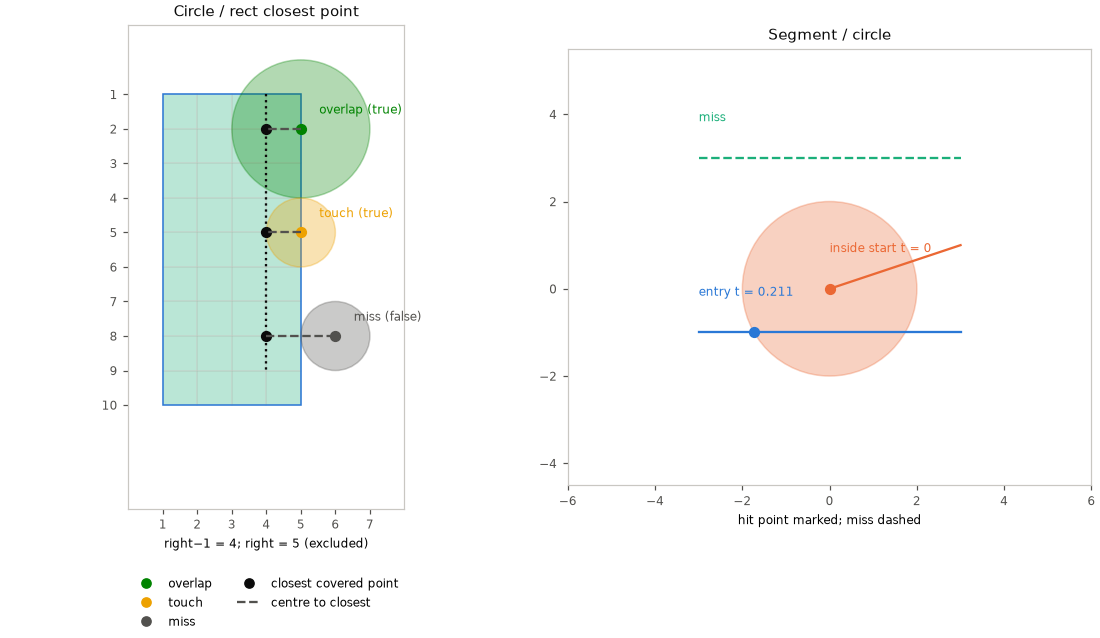
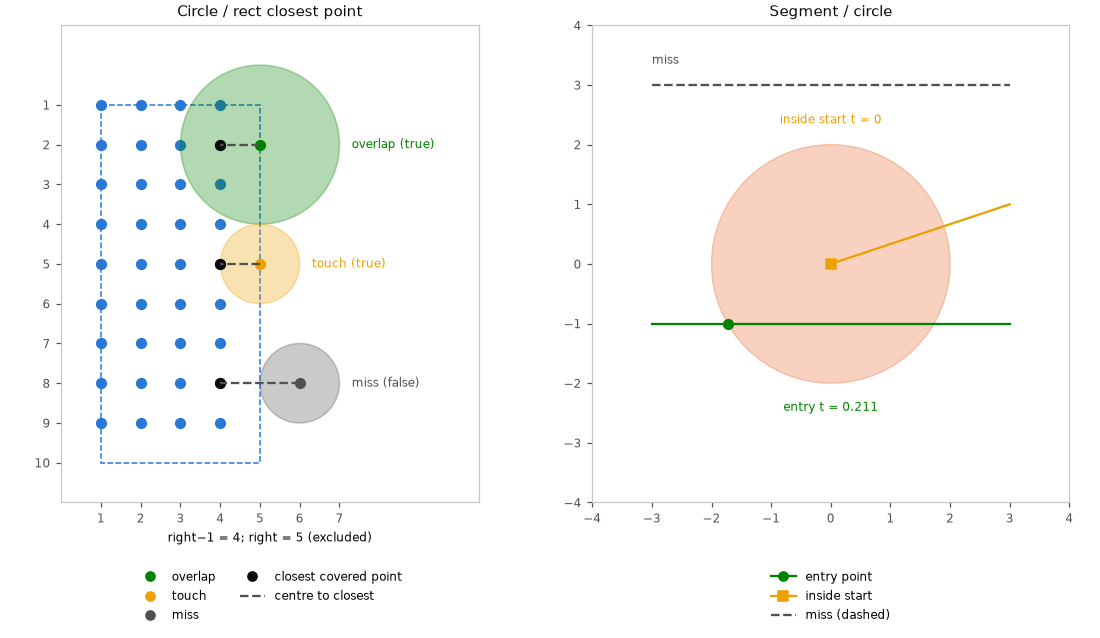
docs: circle figure shows integer cells as points (autana-z852)

diff --git a/launcher/tools/math/geometry_figures.py b/launcher/tools/math/geometry_figures.py
@@ -77,8 +77,9 @@ DISTANCE_STEP_Y = -1.35
 DISTANCE_MARGIN = 0.8
 SEGMENT_ZOOM = 0.9
 CIRCLE_MARGIN = 1
-CIRCLE_STATE_OFFSET = (12, 10)
-CIRCLE_SEGMENT_OFFSET = (0, 24)
+CIRCLE_STATE_OFFSET = (8, 0)
+CIRCLE_LABEL_ROOM = 3.5
+CIRCLE_SEGMENT_OFFSETS = ((0, -12), (0, 12), (0, 12))
 CIRCLE_LEGEND_OFFSET = -0.12
 
 
@@ -129,13 +130,12 @@ def circle_figure(data, output):
     fig.set_size_inches(FIGURE_WIDTH, FIGURE_HEIGHT)
     style_axes(axis, "Circle / rect closest point", square=True)
     x, y, w, h = data["rect"]
-    last_x, last_y = data["last"]
+    last_x, _ = data["last"]
     for cell_y in range(y, y + h):
         for cell_x in range(x, x + w):
-            axis.add_patch(Rectangle((cell_x, cell_y), 1, 1, facecolor=PIXEL_FILL,
-                                     edgecolor=FAINT, alpha=SHAPE_ALPHA))
-    axis.add_patch(Rectangle((x, y), w, h, facecolor="none", edgecolor=SHAPE_FILL))
-    axis.plot([last_x, last_x], [y, last_y], color=INK, linestyle=":")
+            axis.scatter(cell_x, cell_y, color=SHAPE_FILL, s=POINT_SIZE)
+    axis.add_patch(Rectangle((x, y), w, h, facecolor="none", edgecolor=SHAPE_FILL,
+                             linestyle="--"))
     axis.set_xlabel(f"right−1 = {last_x}; right = {x + w} (excluded)", fontsize=LABEL_SIZE)
     for centre, radius, closest, hit, state in data["circles"]:
         color = BOX_COLORS[("overlap", "touch", "miss").index(state)]
@@ -143,11 +143,11 @@ def circle_figure(data, output):
         axis.plot(*np.array([centre, closest]).T, color=MUTED, linestyle="--")
         axis.scatter(*centre, color=color, s=POINT_SIZE)
         axis.scatter(*closest, color=INK, s=POINT_SIZE)
-        axis.annotate(f"{state} ({'true' if hit else 'false'})", centre,
+        axis.annotate(f"{state} ({'true' if hit else 'false'})", (centre[0] + radius, centre[1]),
                       xytext=CIRCLE_STATE_OFFSET, textcoords="offset points",
-                      fontsize=LABEL_SIZE, color=color)
-    axis.set_xlim(x - CIRCLE_MARGIN, max(c[0][0] + c[1] for c in data["circles"]) + CIRCLE_MARGIN)
-    axis.set_ylim(y + h + CIRCLE_MARGIN * 3,
+                      va="center", fontsize=LABEL_SIZE, color=color)
+    axis.set_xlim(x - CIRCLE_MARGIN, max(c[0][0] + c[1] for c in data["circles"]) + CIRCLE_LABEL_ROOM)
+    axis.set_ylim(y + h + CIRCLE_MARGIN,
                   min(y, min(c[0][1] - c[1] for c in data["circles"])) - CIRCLE_MARGIN)
     axis.set_xticks(range(x, x + w + CIRCLE_MARGIN * 3))
     axis.set_yticks(range(y, y + h + 1))
@@ -160,17 +160,29 @@ def circle_figure(data, output):
     style_axes(segment_axis, "Segment / circle", square=True)
     centre, radius = data["segment_circle"]
     segment_axis.add_patch(Circle(centre, radius, facecolor=POINT, edgecolor=POINT, alpha=SHAPE_ALPHA))
-    for (a, b, hit, t, point), color in zip(data["segments"], SLOTS):
+    for (a, b, hit, t, point), offset in zip(data["segments"], CIRCLE_SEGMENT_OFFSETS):
+        color = BOX_COLORS[1 if hit and t == 0 else 0] if hit else MUTED
         segment_axis.plot(*np.array([a, b]).T, color=color, linestyle="-" if hit else "--")
         if hit:
-            segment_axis.scatter(*point, color=color, s=POINT_SIZE)
+            segment_axis.scatter(*point, color=color, s=POINT_SIZE,
+                                 marker="s" if t == 0 else "o")
             label = "inside start t = 0" if t == 0 else f"entry t = {t:.3g}"
         else:
             label = "miss"
-        segment_axis.annotate(label, a, xytext=CIRCLE_SEGMENT_OFFSET,
+        anchor = (centre[0], centre[1] + (radius if t == 0 else -radius)) if hit else a
+        segment_axis.annotate(label, anchor, xytext=offset, ha="center" if hit else "left",
+                              va="bottom" if offset[1] > 0 else "top",
                               textcoords="offset points", color=color, fontsize=LABEL_SIZE)
-    segment_axis.margins(CIRCLE_MARGIN / radius)
-    segment_axis.set_xlabel("hit point marked; miss dashed", fontsize=LABEL_SIZE)
+    extent = max(np.abs(endpoint).max() for segment in data["segments"] for endpoint in segment[:2])
+    extent = max(extent, np.abs(centre).max() + radius) + CIRCLE_MARGIN
+    segment_axis.set_xlim(-extent, extent)
+    segment_axis.set_ylim(-extent, extent)
+    segment_axis.legend(handles=[
+        Line2D([], [], color=BOX_COLORS[0], marker="o", label="entry point"),
+        Line2D([], [], color=BOX_COLORS[1], marker="s", label="inside start"),
+        Line2D([], [], color=MUTED, linestyle="--", label="miss (dashed)")],
+        fontsize=LABEL_SIZE, loc="upper center", bbox_to_anchor=(0.5, CIRCLE_LEGEND_OFFSET),
+        frameon=False)
     save(fig, output)
 
 
